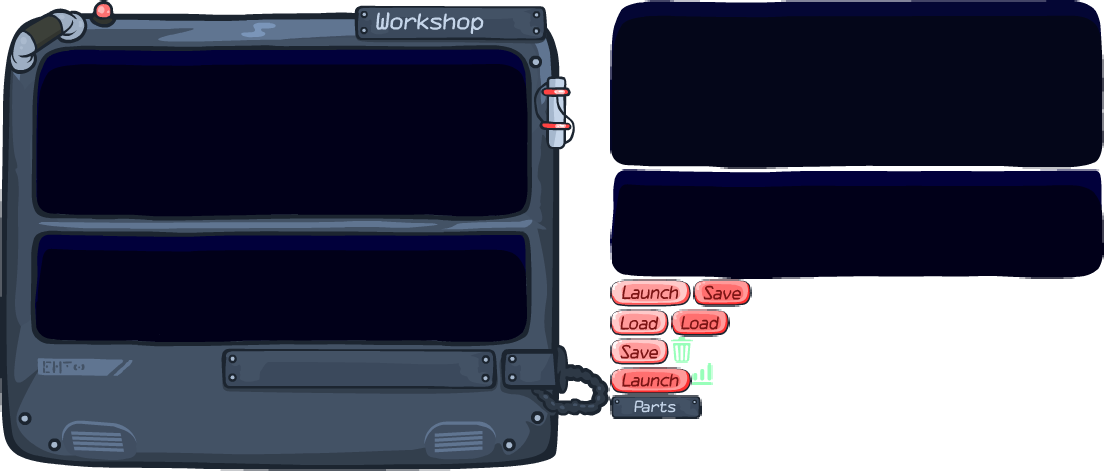
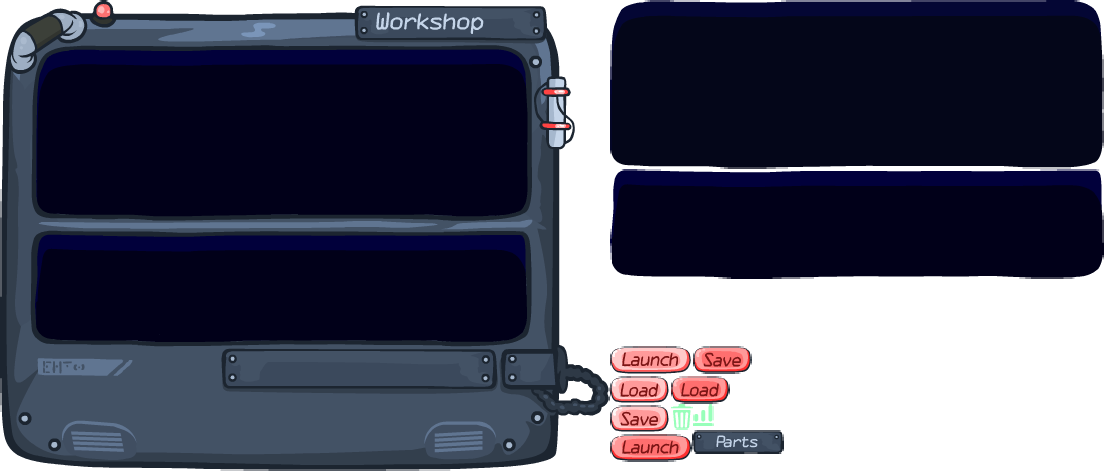
loading and saving

Changed region(s): [[0.5543, 0.5945, 0.7083, 0.9809]]

diff --git a/src/workshopinterface/workshopinterface.js b/src/workshopinterface/workshopinterface.js
@@ -34,7 +34,9 @@ let middleHullsPlaced = 0;
 
 let shopScrollTar = 0;
 let prevPointerX = 0;
-let pointerDelta = 0;
+let prevPointerY = 0;
+let pointerDeltaX = 0;
+let pointerDeltaY = 0;
 let pointerState;
 let pointerX;
 let pointerY;
@@ -43,12 +45,22 @@ let buildTargetY;
 let scaleTar = 0.2;
 
 let rectGraphics = [];
+let scrollInterfaceItems = [];
 
 export function createWorkshopInterface(context) {
     scene = context;
     workshopInterfaceX = scene.game.config.width/2;
     workshopInterfaceY = scene.game.config.height/2;
     scene.input.topOnly = false;
+
+    scene.input.on('pointerup', function (pointer) {
+        pointerState = 'up';
+        scrollInterfaceItems = [];
+    });
+    scene.input.on('pointermove', function (pointer) {
+        pointerX = pointer.x;
+        pointerY = pointer.y;
+    });
 
     //Base graphic
     workshopInterface = scene.add.container(workshopInterfaceX, workshopInterfaceY);
@@ -82,43 +94,80 @@ export function createWorkshopInterface(context) {
 }
 
 export function interfaceMovement(){
+    //Build screen movement
     rootNode.x -= (rootNode.getBounds().centerX - buildTargetX)/70
     rootNode.y -= (rootNode.getBounds().centerY - buildTargetY)/70
-    for(var i=0;i<partsList.length;i++){
-        if(pointerState == 'down'){
-            partsList[i].x -= (partsList[i].x - (shopScrollTar+partsList[i].originalX))/5;
-        } else {
-            partsList[i].x -= (partsList[i].x - (shopScrollTar+partsList[i].originalX))/28;
-        }
-        partsList[i].scale -= (partsList[i].scale - partsList[i].tarScale)/12;
-        partsList[i].partText.x = partsList[i].x-25;
-        partsList[i].partText.y = partsList[i].y+30;
-    }
+
     if(rootNode.getBounds().width > 1){
         var scale_X = ((rootNode.getBounds().width+rootNode.getBounds().height)/2/1000);
         rootNode.scaleX -= (scale_X - scaleTar)/20
     }
-    if(rootNode.scaleX > .35){mouseOverBuildScreenIcons
+    if(rootNode.scaleX > .35){
         rootNode.scaleX = .35;
     }
     if(rootNode.scaleX < .2){
         rootNode.scaleX = .2;
     }
     rootNode.scaleY = rootNode.scaleX;
+
+    //Shop screen movement
+    for(var i=0;i<partsList.length;i++){
+        if(pointerState == 'downShop'){
+            partsList[i].x -= (partsList[i].x - (shopScrollTar+partsList[i].originalX))/5;
+        }
+        if(pointerState == 'up'){
+            partsList[i].x -= (partsList[i].x - (shopScrollTar+partsList[i].originalX))/28;
+        }
+        partsList[i].scale -= (partsList[i].scale - partsList[i].tarScale)/12;
+        partsList[i].partText.x = partsList[i].x-25;
+        partsList[i].partText.y = partsList[i].y+30;
+    }
+
     for(var j=0;j<allParts.length;j++){
         allParts[j].alpha -= (allParts[j].alpha - 1)/30;
     }
-    pointerDelta = pointerX - prevPointerX;
-    if(pointerState == 'down'){
-            shopScrollTar += pointerDelta*2;
-            if(shopScrollTar<-totalPartsListWidth){
-                shopScrollTar = -totalPartsListWidth;
+    //Curser delta
+    pointerDeltaX = pointerX - prevPointerX;
+    pointerDeltaY = pointerY - prevPointerY;
+    if(pointerState == 'downShop'){
+        shopScrollTar += pointerDeltaX*2;
+        if(shopScrollTar<-totalPartsListWidth){
+            shopScrollTar = -totalPartsListWidth;
+        }
+        if(shopScrollTar>0){
+            shopScrollTar = 0;
+        }
+    }
+
+    //General scrolling //What's needed to scroll something? 1. Set pointerState to "downGeneral", 2. Add the item being scrolled to scrollInterfaceItems array, 3. Set the key 'yScroll, and xScroll' on the item to determin maximum scroll amount.
+    if(pointerState == 'downGeneral'){
+        for(let items of scrollInterfaceItems){
+            items.yTar += pointerDeltaY*2;
+            items.xTar += pointerDeltaX*2;
+            if(items.yTar>0){
+                items.yTar = 0;
             }
-            if(shopScrollTar>0){
-                shopScrollTar = 0;
+            if(items.yTar<-items.yScroll){
+                items.yTar = -items.yScroll;
             }
+            if(items.xTar>items.xScroll){
+                items.xTar = items.xScroll;
+            }
+            if(items.xTar<0){
+                items.xTar = 0;
+            }
+        }
+    }
+    for(let items of scrollInterfaceItems){
+        items.y -= (items.y - items.yTar)/10;
+        items.x -= (items.x - items.xTar)/10;
     }
     prevPointerX = pointerX;
+    prevPointerY = pointerY;
+
+
+
+    //Random mouse pointer logic
     if(mouseOverBuildScreen && !mouseOverBuildScreenIcons && !buildScreenFrozen){
         if(mouseOverPart.length > 0){
             document.body.style.cursor = 'pointer'; 
@@ -126,15 +175,19 @@ export function interfaceMovement(){
             document.body.style.cursor = 'default'; 
         }
     }
+    //Highlighting parts on buildscreen
     if(mouseOverPart.length > 0){
         highlightPart(mouseOverPart[0]);
     }
+
+    //Positioning and shaping select rect
     if(rectGraphics.length > 0){
         var selectRect = rectGraphics[0];
         selectRect.x = selectRect.target.getBounds().x+selectRect.target.getBounds().width/2;
         selectRect.y = selectRect.target.getBounds().y+selectRect.target.getBounds().height/2;
     }
 
+    //Positioning scaling and animating ping graphics
     for(let pings of allPingGraphics){
         pings.graphic.x = pings.getBounds().x-workshopInterfaceX;
         pings.graphic.y = pings.getBounds().y-workshopInterfaceY;
@@ -193,25 +246,6 @@ function createShopScreen() {
     lowerScreen.alpha = 0.1;
     shopInterface.add(lowerScreen);
 
-    scene.input.on('pointerup', function (pointer) {
-        pointerState = 'up';
-    });
-    scene.input.on('pointermove', function (pointer) {
-        pointerX = pointer.x;
-        pointerY = pointer.y;
-        pointerDelta = pointerX - prevPointerX;
-        if (pointerState == 'down') {
-            shopScrollTar += pointerDelta * 2;
-            if (shopScrollTar < -totalPartsListWidth) {
-                shopScrollTar = -totalPartsListWidth;
-            }
-            if (shopScrollTar > 0) {
-                shopScrollTar = 0;
-            }
-        }
-        prevPointerX = pointerX;
-    });
-
     lowerScreen.on('pointerout', () => {
         document.body.style.cursor = 'default';
         pointerOnShop = false;
@@ -221,7 +255,7 @@ function createShopScreen() {
         pointerOnShop = true;
     });
     lowerScreen.on('pointerdown', () => {
-        pointerState = 'down';
+        pointerState = 'downShop';
     });
 
     var lowerScreenMask = scene.add.image(workshopInterfaceX-23.75, workshopInterfaceY+53,'interface','lowerScreen.png');
@@ -249,7 +283,8 @@ function createLaunchButton() {
 }
 
 function createDefaultSubs(){
-    if(localStorage.getItem('savedSubs') === null){
+    const savedSubs = localStorage.getItem('savedSubs');
+    if(localStorage.getItem('savedSubs') === null || JSON.parse(savedSubs).length === 0){
         localStorage.setItem('savedSubs', JSON.stringify(defaultSub));
     }
 }
@@ -266,7 +301,7 @@ function createSaveButton() {
         saveButton.frame = saveButton.texture.frames["saveButtonUp.png"];
     });
     saveButton.on('pointerdown', () => {
-        if(rootNode.list.length == 0){console.log("User tried to save nothing"); return};
+        if(rootNode.list.length == 0){return};
         saveSubDialogue(buildInterface);
     });
 }
@@ -284,7 +319,9 @@ function createLoadButton() {
     });
     loadButton.on('pointerdown', () => {
         if (buildScreenFrozen) { return; };
-        loadSubDialogue();
+        let loadSubDialogueBox = loadSubDialogue(buildInterface);
+        loadSubDialogueBox.maskBox.x = loadSubDialogueBox.boxGuide.getBounds().x+loadSubDialogueBox.boxGuide.getBounds().width/2;
+        loadSubDialogueBox.maskBox.y = loadSubDialogueBox.boxGuide.getBounds().y+loadSubDialogueBox.boxGuide.getBounds().height/2;
     });
 }
 
@@ -651,11 +688,157 @@ function saveSubDialogue(addTo){
     addTo.add(dialogueBoxContainer);
 }
 
-function loadSubDialogue(){
-    loadSub();
+function dialogueSelectorOption(text,x,y,id,func){
+    let dialogueSelectorOptionContainer = scene.add.container();
+    var highlightBox = scene.add.rectangle(-2,-3,150,14, colours.navyHighlight).setOrigin(0.5,0.5).setInteractive();
+    highlightBox.alpha = 1;
+
+    dialogueSelectorOptionContainer.add(highlightBox);
+
+    highlightBox.on('pointerover', () => {
+        document.body.style.cursor = 'pointer';
+        highlightBox.setStrokeStyle(1,colours.lime);
+    });
+    highlightBox.on('pointerout', () => {
+        document.body.style.cursor = 'default';
+        highlightBox.setStrokeStyle(0,colours.lime);
+    });
+    highlightBox.on('pointerdown', () => {
+        func();
+    });
+
+    let dialogueText = scene.add.bitmapText(0,0,'MKOCR', text,14).setOrigin(0.5,0.5);
+    dialogueText.setTint(colours.lime);
+    dialogueText.id = id;
+    dialogueSelectorOptionContainer.add(dialogueText);
+
+    dialogueSelectorOptionContainer.x = x;
+    dialogueSelectorOptionContainer.y = y;
+
+    return dialogueSelectorOptionContainer;
 }
 
-function loadSub() {
+function dialogueSelector(x,y,width,height){
+    let selectorContainer = scene.add.container();
+    selectorContainer.selected = null;
+    let box = scene.add.rectangle(x,y,width,height).setInteractive();
+    selectorContainer.add(box);
+
+    let textContainer = scene.add.container();
+    textContainer.xTar = 0;
+    textContainer.yTar = 0;
+    selectorContainer.add(textContainer);
+
+    let boxOutline = scene.add.rectangle(x,y,width,height);
+    boxOutline.setStrokeStyle(1,colours.lime);
+    selectorContainer.add(boxOutline);
+
+    const savedSubsJSON = JSON.parse(localStorage.getItem('savedSubs'));
+
+    for (let i = 0; i < savedSubsJSON.length; i++) {
+        let selectorOptionText = dialogueSelectorOption(savedSubsJSON[i].metaData.name, -18, -134 + (i * 18), i, () => {
+            selectorContainer.selected = i;
+            for (let selectorOptionTexts of selectorContainer.list[1].list) {
+                selectorOptionTexts.list[0].setFillStyle(colours.navyHighlight);
+                selectorOptionTexts.list[1].setTintFill(colours.lime);
+            }
+            selectorOptionText.list[0].setFillStyle(colours.lime);
+            selectorOptionText.list[1].setTintFill(colours.navy);
+        });
+        textContainer.add(selectorOptionText);
+    }
+
+    let masky = scene.add.image(0,0,'interface','maskBox.png');
+    selectorContainer.maskBox = masky;
+    selectorContainer.maskBox.setVisible(false);
+    selectorContainer.boxGuide = box;
+    textContainer.mask = new Phaser.Display.Masks.BitmapMask(scene, selectorContainer.maskBox);
+
+    box.on('pointerdown', () => {
+        pointerState = "downGeneral";
+        scrollInterfaceItems.push(textContainer);
+        textContainer.yScroll = Math.max(0,textContainer.getBounds().height-54);
+        textContainer.xScroll = 0;
+    });
+        
+    return selectorContainer;
+
+}
+
+function loadSubDialogue(addTo){
+    destroySelectRect();
+    buildScreenFrozen = true;
+    let dialogueBoxContainer = scene.add.container();
+    let dialogueBox = scene.add.rectangle(-20,-110,340,130,colours.navy);
+    dialogueBox.setStrokeStyle(1,colours.lime);
+    dialogueBoxContainer.add(dialogueBox);
+
+    let dialogueText = scene.add.bitmapText(-20,-158,'MKOCR', "Select Submarine:",14).setOrigin(0.5);
+    dialogueText.setTint(colours.lime);
+    dialogueBoxContainer.add(dialogueText);
+
+    let dialogueSelectorContainer = dialogueSelector(-20,-115,200,65);
+    dialogueBoxContainer.add(dialogueSelectorContainer);
+    dialogueBoxContainer.maskBox = dialogueSelectorContainer.maskBox;
+    dialogueBoxContainer.boxGuide = dialogueSelectorContainer.boxGuide;
+
+    let loadButton = dialogueButton(()=>{
+        if(dialogueSelectorContainer.selected != null){
+            buildScreenFrozen = false;
+            dialogueBoxContainer.destroy();
+            loadSub(dialogueSelectorContainer.selected);
+        }
+    },"Load", );
+    loadButton.x = 30-40;
+    loadButton.y = -65;
+    dialogueBoxContainer.add(loadButton);
+
+    let cancelButton = dialogueButton(()=>{
+        buildScreenFrozen = false;
+        dialogueBoxContainer.destroy();
+    },"Cancel", );
+    cancelButton.x = 120-40;
+    cancelButton.y = -65;
+    dialogueBoxContainer.add(cancelButton);
+
+    let deleteButton = dialogueButton(()=>{
+        let savedSubsJSON = JSON.parse(localStorage.getItem('savedSubs'));
+        savedSubsJSON.splice(dialogueSelectorContainer.selected,1);
+        localStorage.setItem('savedSubs', JSON.stringify(savedSubsJSON));
+        for (let i=0; i<dialogueSelectorContainer.list[1].list.length;i++){
+            dialogueSelectorContainer.list[1].list[i].destroy();
+        }
+        for (let i=0; i<dialogueSelectorContainer.list[1].list.length;i++){
+            dialogueSelectorContainer.list[1].list[i].destroy();
+        }
+        for (let i=0; i<dialogueSelectorContainer.list[1].list.length;i++){
+            dialogueSelectorContainer.list[1].list[i].destroy();
+        }
+        for (let i=0; i<dialogueSelectorContainer.list[1].list.length;i++){
+            dialogueSelectorContainer.list[1].list[i].destroy();
+        }
+        for (let i=0; i<dialogueSelectorContainer.list[1].list.length;i++){
+            dialogueSelectorContainer.list[1].list[i].destroy();
+        }
+        dialogueSelectorContainer = dialogueSelector(-20,-115,200,65);
+        dialogueBoxContainer.add(dialogueSelectorContainer);
+        dialogueBoxContainer.maskBox = dialogueSelectorContainer.maskBox;
+        dialogueBoxContainer.boxGuide = dialogueSelectorContainer.boxGuide;
+        dialogueBoxContainer.maskBox.x = dialogueBoxContainer.boxGuide.getBounds().x+dialogueBoxContainer.boxGuide.getBounds().width/2;
+        dialogueBoxContainer.maskBox.y = dialogueBoxContainer.boxGuide.getBounds().y+dialogueBoxContainer.boxGuide.getBounds().height/2;
+        dialogueBoxContainer.selected = null;
+    },"Delete", );
+    deleteButton.x = -60-40;
+    deleteButton.y = -65;
+    dialogueBoxContainer.add(deleteButton);
+    dialogueBoxContainer.y = 5;
+
+    addTo.add(dialogueBoxContainer);
+
+    return dialogueBoxContainer;
+}
+
+function loadSub(subIndex) {
     destroySelectRect();
     if (rootNode.list.length !== 0) {
         buildScreenFrozen = true;
@@ -671,8 +854,7 @@ function loadSub() {
         trashSub();
         scene.sound.add('click').play();
         const savedSubsJSON = JSON.parse(localStorage.getItem('savedSubs'));
-        const loadedSub = savedSubsJSON[0].subData;
-        console.log(loadedSub);
+        const loadedSub = savedSubsJSON[subIndex].subData;
         if (Object.keys(loadedSub).length !== 0) {
             createLoadedSub(loadedSub, rootNode);
         }

diff --git a/src/workshopinterface/defaultSub.js b/src/workshopinterface/defaultSub.js
@@ -1,1 +1,1 @@
-export const defaultSub = [{metaData: {name:"Default Sub"},subData: {"name":"back_hull","list":[{"name":"animProp_","list":[],"x":155,"y":-25,"connectedVia":"D"},{"name":"middle_hull","list":[{"name":"front_hull","list":[{"name":"frontHardpoint","list":[{"name":"miningLaser","list":[],"x":-60,"y":40,"connectedVia":"K"}],"x":-50,"y":85,"connectedVia":"G"},{"name":"window","list":[],"x":30,"y":0,"connectedVia":"F"}],"x":-208.5,"y":0,"connectedVia":"B"},{"name":"top_hatch","list":[],"x":80,"y":-155,"connectedVia":"E"},{"name":"flipper","list":[],"x":80,"y":70,"connectedVia":"C"},{"name":"flair2","list":[],"x":0,"y":-40,"connectedVia":"F"},{"name":"gun_assembly","list":[],"x":0,"y":135,"rotated":180,"connectedVia":"H"},{"name":"gun_assembly","list":[],"x":-80,"y":-135,"connectedVia":"D"}],"x":-294.5,"y":0,"connectedVia":"B"},{"name":"top_plate","list":[],"x":-120,"y":-80,"connectedVia":"E"},{"name":"gun_assembly","list":[],"x":-20,"y":100,"rotated":158,"connectedVia":"H"},{"name":"back_armor","list":[],"x":-120,"y":110,"connectedVia":"G"}],"x":0,"y":0,"connectedVia":"M"}}]
+export const defaultSub = [{metaData: {name:"DEFAULT"},subData: {"name":"back_hull","list":[{"name":"animProp_","list":[],"x":155,"y":-25,"connectedVia":"D"},{"name":"middle_hull","list":[{"name":"front_hull","list":[{"name":"frontHardpoint","list":[{"name":"miningLaser","list":[],"x":-60,"y":40,"connectedVia":"K"}],"x":-50,"y":85,"connectedVia":"G"},{"name":"window","list":[],"x":30,"y":0,"connectedVia":"F"}],"x":-208.5,"y":0,"connectedVia":"B"},{"name":"top_hatch","list":[],"x":80,"y":-155,"connectedVia":"E"},{"name":"flipper","list":[],"x":80,"y":70,"connectedVia":"C"},{"name":"flair2","list":[],"x":0,"y":-40,"connectedVia":"F"},{"name":"gun_assembly","list":[],"x":0,"y":135,"rotated":180,"connectedVia":"H"},{"name":"gun_assembly","list":[],"x":-80,"y":-135,"connectedVia":"D"}],"x":-294.5,"y":0,"connectedVia":"B"},{"name":"top_plate","list":[],"x":-120,"y":-80,"connectedVia":"E"},{"name":"gun_assembly","list":[],"x":-20,"y":100,"rotated":158,"connectedVia":"H"},{"name":"back_armor","list":[],"x":-120,"y":110,"connectedVia":"G"}],"x":0,"y":0,"connectedVia":"M"}}]
